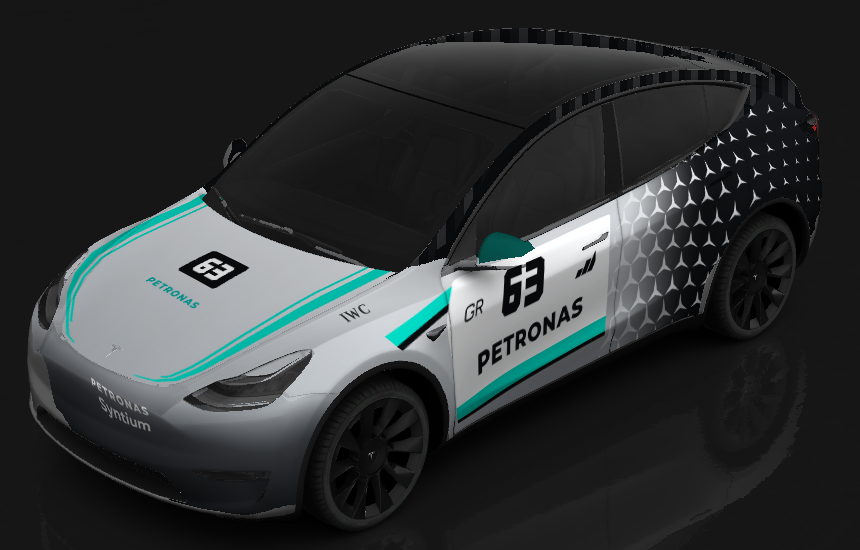
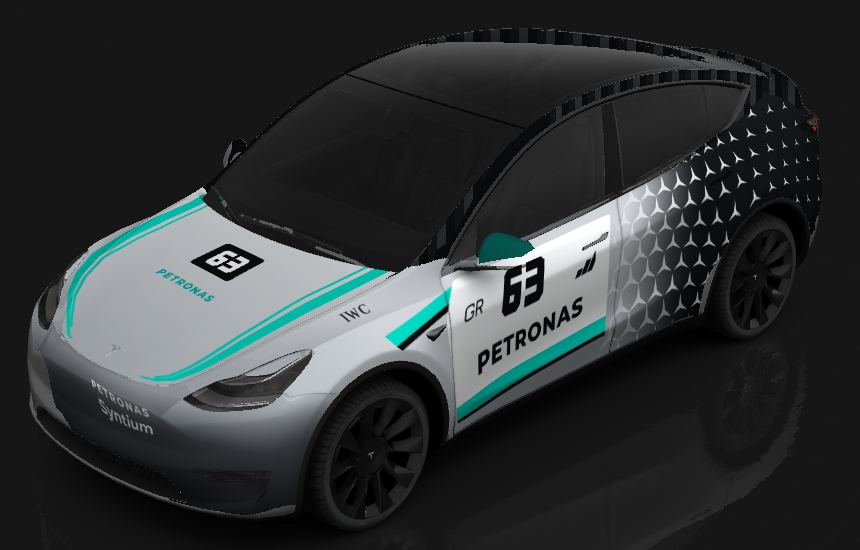
B: body of the 3D-render reference with the front of the number-plate reference
The owner prefers the body of the first reference and the front of the
third, so Race Livery now combines them:
- front: shared race_hood()/race_bumper() (also used by Russell 63) -
  double teal stripes on the hood's edges, a 63 plate near the
  windscreen, silver-to-near-black bumper with PETRONAS Syntium.
- body: the flow line keeps one straight top edge parallel to the door
  crease, full width under the inlet bars and a fine blade across the
  rear door; the corner of the teal L is one clean slanted edge; denser
  star mesh; teal flash at the foot of the A-pillar ties the hood stripe
  to the bar; PETRONAS sits on a darker fade for contrast; stars kept
  off the partner names; PETRONAS PRIMAX on the rear bumper corners.
- fix: the two black areas now overlap under the flow line (a thin
  silver sliver used to show behind the end of the blade).

Claude-Session: https://claude.ai/code/session_01BfTDjqUfM4U8BnEC3d7TYF

diff --git a/tools/designs/w16_b.py b/tools/designs/w16_b.py
@@ -1,30 +1,37 @@
-"""W16 'Race Livery' - the busy one, closest to the 3D-render reference and to
-the real car: silver on top, black flanks, a teal bar and one straight flow
-line where they meet, a star field and a full set of partner decals.
+"""W16 'Race Livery' - the owner's pick: the body of the 3D-render reference
+(teal bar and flow line, black sidepod, inlet bars, big PETRONAS, star mesh,
+partner decals) with the front of the number-plate reference (double teal
+stripes on the hood edges, a 63 plate, a bumper that fades from silver to
+near-black).
 """
 from __future__ import annotations
 
 import numpy as np
 
-from wrapkit import Canvas, box_decal, compose, layer, mix, ribbon, smoothstep, text_decal
+from wrapkit import Canvas, box_decal, compose, layer, mix, smoothstep, text_decal
 from designs.w16_common import *
 
 NAME = "W16_Race_Livery"
 TITLE = "B - Race Livery"
 NUMBER = "63"
 
-LINE_X0, LINE_Y0, LINE_SLOPE = 346.0, 170.0, CREASE_SLOPE   # the flow line: straight, parallel to the door crease
-LINE_X1 = 716.0
+# The flow line: its top edge is one straight line, parallel to the lower door crease.
+LINE_X0, LINE_X1 = 346.0, 716.0
+LINE_TOP0 = 162.0
 
 
 def diag_x(y):
-    """Leading edge of the teal bar that slants down the front door."""
+    """Leading edge of the teal bar that slants down the front of the door."""
     return 296 + (y - 78) * 0.62
 
 
-def line_y(x):
-    """Centre of the teal flow line (parallel to the shoulder of the rear door)."""
-    return LINE_Y0 + LINE_SLOPE * (np.asarray(x, dtype=np.float64) - LINE_X0)
+def line_top(x):
+    return LINE_TOP0 + CREASE_SLOPE * (np.asarray(x, dtype=np.float64) - LINE_X0)
+
+
+def line_thickness(x):
+    """Full width under the inlet bars, a fine blade across the rear door."""
+    return np.interp(x, [LINE_X0, 478, 528, LINE_X1], [16, 16, 5, 1.5])
 
 
 def paint_sides() -> dict:
@@ -34,32 +41,38 @@ def paint_sides() -> dict:
     c.paint(np.ones_like(X), metallic(c))
     nose_fade_side(c)
     black = c.gradient_field([(0, CARBON), (c.h, BLACK)], axis="y")
-    ly = line_y(X)
+    top = line_top(X)
 
     # black "sidepod": everything behind the slanted bar and above the flow line
-    pod = smoothstep(0, 3, X - (296 + (Y - 78) * 0.62) - 8) * smoothstep(0, 3, ly - Y)
+    # (the two black areas overlap under the teal line so no silver sliver is left between them)
+    pod = smoothstep(0, 3, X - (296 + (Y - 78) * 0.62) - 8) * smoothstep(0, 3, top + 10 - Y)
     c.paint(pod, black)
     # below the flow line the silver dissolves into black across the front door
-    low = smoothstep(318, 500, X + (Y - 200) * 0.25) * smoothstep(-2, 2, Y - ly)
+    low = smoothstep(292, 424, X + (Y - 200) * 0.25) * smoothstep(-2, 2, Y - top - 3)
     c.paint(low, black)
 
-    # star field: behind the front door only, strongest above the flow line
+    # star mesh behind the front door: nearly touching above the flow line,
+    # thinning out below it and toward the tail
     def radius(x, y):
-        grow = min(1.0, max(0.0, (x - 506) / 24.0))
-        fade = 1.0 - 0.62 * min(1.0, max(0.0, (x - 620) / 260.0))
-        below = y - float(line_y(x))
-        drop = 1.0 if below < 0 else max(0.0, 1.0 - below / 70.0)
-        r = 11.5 * grow * fade * drop
+        grow = min(1.0, max(0.0, (x - 506) / 22.0))
+        fade = 1.0 - 0.55 * min(1.0, max(0.0, (x - 640) / 250.0))
+        below = y - float(line_top(x)) - 4
+        drop = 1.0 if below < 0 else max(0.0, 1.0 - below / 64.0)
+        r = 10.5 * grow * fade * drop
         return r if r >= 3.5 else 0.0
-    stars = c.mask_polygons(star_lattice(506, 900, 12, 250, 28, radius, inner=0.15))
+    stars = c.mask_polygons(star_lattice(506, 900, 10, 250, 25, radius, inner=0.19))
     keep = 1 - c.mask_ellipse(800, 62, 38, 26)                    # room for the number roundel
-    c.paint(stars * keep, STAR)
+    keep = keep * (1 - c.mask_rect(786, 132, 884, 166, radius=6))  # and for the partner names below it
+    c.paint(stars * keep, SILVER_HI)
 
-    # teal: slanted bar, then one straight line tapering evenly to the tail
+    # teal: flash at the foot of the A-pillar, the slanted bar, and the flow line
+    c.polygon([(244, 50), (272, 46), (280, 74), (262, 78)], TEAL)
     c.polygon([(diag_x(80), 80), (diag_x(80) + 30, 80), (diag_x(178) + 34, 178), (diag_x(178) - 4, 178)], TEAL)
-    # (it ends with the rear door, before the wheel arch bends the panel)
-    xs = np.linspace(LINE_X0, LINE_X1, 60)
-    c.polygon(ribbon([(x, float(line_y(x))) for x in xs], np.interp(xs, [LINE_X0, LINE_X1], [17, 1.5])), TEAL)
+    # (its front end is cut on the same slant as the bar, so the corner of the L is one clean edge)
+    xs = np.linspace(LINE_X0, LINE_X1, 80)
+    upper = [(x, float(line_top(x))) for x in xs]
+    lower = [(x, float(line_top(x) + line_thickness(x))) for x in xs if x >= diag_x(178) - 4]
+    c.polygon(upper + lower[::-1], TEAL)
 
     # four inlet bars in the corner of the flow line, white fading to grey;
     # they stop short of the door handle (X 458-497)
@@ -68,8 +81,8 @@ def paint_sides() -> dict:
         c.polygon([(x0 + 22, 104), (x0 + 36, 104), (x0 + 14, 150), (x0, 150)], mix(WHITE, "#7E858B", i / 3.4))
 
     s.decal(text_decal("TeamViewer", F_SANS, 10.5, fill=WHITE), 404, 93)
-    s.decal(wordmark("PETRONAS", 24, WHITE, tracking=0.8, stroke=0.9, stroke_fill="#3A3F44"), 430, 207)
-    s.decal(wordmark("AMG", 15, BLACK, font=F_BLACK_IT, tracking=0.4, squeeze=1.25), 218, 92)
+    s.decal(wordmark("PETRONAS", 23.5, WHITE, tracking=0.8, stroke=1.0, stroke_fill="#2E3237"), 422, 208)
+    s.decal(wordmark("AMG", 15, BLACK, font=F_BLACK_IT, tracking=0.4, squeeze=1.25), 214, 96)
     s.decal(text_decal("IWC", F_SERIF, 14, fill=BLACK, tracking=0.8), 150, 62)
     s.decal(text_decal("Mercedes-Benz", "LiberationSerif-BoldItalic.ttf", 11.5, fill=WHITE), 596, 226)
     # race number roundel on the C-pillar part of the quarter panel
@@ -83,6 +96,7 @@ def paint_sides() -> dict:
 def paint_rails() -> dict:
     r = Mirrored("rail_L", base=BLACK)
     c = r.art
+    c.paint(c.mask_rect(-2, -2, 11, c.h + 2), TEAL)      # foot of the A-pillar
     for txt, x, font in (("CROWDSTRIKE", 236, F_COND), ("SOLERA", 336, F_SANS), ("WhatsApp", 428, F_SANS)):
         r.decal(text_decal(txt, font, 11 if font == F_COND else 9.5, fill=WHITE, tracking=0.5), x, c.h / 2 + 1)
     return r.render()
@@ -94,28 +108,19 @@ def paint_mirrors() -> dict:
 
 def paint_hood():
     c = Canvas("hood", SILVER)
-    hood_base(c)
-    # teal on the hood's side edges with a fine dark keyline inside it
-    c.paint(hood_edge_bands(c, 7, lambda y: float(np.interp(y, [8, 60, 236], [7, 7, 1.5]))), TEAL)
-    c.paint(hood_edge_bands(c, 19, 1.6, y0=10, y1=200), BLACK)
-    c.stamp(text_decal(NUMBER, F_BLACK_IT, 30, fill=BLACK, tracking=-0.5), c.w / 2, 136)
+    race_hood(c, NUMBER)
     return c.result()
 
 
 def paint_front():
     c = Canvas("front", SILVER)
-    bumper_base(c)
-    cx = c.w / 2
-    c.stamp(wordmark("PETRONAS", 13, WHITE, font=F_WORD, tracking=1.6), cx, 52)
-    c.stamp(text_decal("Syntium", "Montserrat-BoldItalic.otf", 18, fill=WHITE), cx, 72)
-    for sgn in (-1, 1):   # low outer corners, clear of the fog lamps
-        c.stamp(text_decal("INEOS", F_SANS, 10, fill=WHITE, tracking=0.8), cx + sgn * 222, 114)
+    race_bumper(c)
     return c.result()
 
 
 def paint_liftgate():
     c = Canvas("liftgate", BLACK)
-    c.paint(c.mask_polygons(star_lattice(0, c.w, 6, c.h, 28, 9.0, inner=0.15)), STAR, 0.9)
+    c.paint(c.mask_polygons(star_lattice(0, c.w, 6, c.h, 25, 8.0, inner=0.19)), SILVER_HI, 0.85)
     liftgate_marks(c, NUMBER)
     return c.result()
 
@@ -125,8 +130,8 @@ def paint_rear():
     cx = c.w / 2
     c.paint(c.mask_rect(160, 78, c.w - 160, 82, radius=2), TEAL)
     for sgn in (-1, 1):
-        c.stamp(text_decal("Snapdragon", F_SANS, 10.5, fill=WHITE), cx + sgn * 208, 72)
-        c.stamp(text_decal("CROWDSTRIKE", F_COND, 12.5, fill=WHITE, tracking=0.5), cx + sgn * 208, 89)
+        c.stamp(wordmark("PETRONAS", 9.5, TEAL, font=F_WORD, tracking=1.0), cx + sgn * 208, 72)
+        c.stamp(text_decal("PRIMAX", "Montserrat-BoldItalic.otf", 13, fill=WHITE, tracking=0.6), cx + sgn * 208, 88)
     return c.result()
 
 

diff --git a/tools/designs/w16_common.py b/tools/designs/w16_common.py
@@ -104,6 +104,28 @@ def bumper_base(c: Canvas):
         [(0, NOSE), (22, "#A7ACB1"), (72, BUMPER_MID), (c.h, BUMPER_LOW)], axis="y"))
 
 
+def race_hood(c: Canvas, number: str):
+    """Hood of the preferred front: a broad teal stripe with a pinstripe inside
+    it along each hood edge, a black number plate up near the windscreen and a
+    small teal wordmark ahead of it.  Everything stays clear of the Tesla
+    badge at the nose."""
+    hood_base(c)
+    c.paint(hood_edge_bands(c, 8, lambda y: float(np.interp(y, [8, 80, 238], [15, 15, 5])), y1=240), TEAL)
+    c.paint(hood_edge_bands(c, lambda y: float(np.interp(y, [8, 80, 232], [30, 30, 14])), 3.2, y1=232), TEAL)
+    cx = c.w / 2
+    c.stamp(block_plate(number, 44), cx, 88)
+    c.stamp(wordmark("PETRONAS", 12, TEAL_DEEP, font=F_WORD, tracking=1.4), cx, 136)
+
+
+def race_bumper(c: Canvas):
+    """Front bumper of the preferred front: silver under the hood lip falling
+    away to near-black, with the lubricant wordmark in white on the dark part."""
+    bumper_base(c)
+    cx = c.w / 2
+    c.stamp(wordmark("PETRONAS", 13, WHITE, font=F_WORD, tracking=1.6), cx, 54)
+    c.stamp(text_decal("Syntium", "Montserrat-BoldItalic.otf", 19, fill=WHITE), cx, 75)
+
+
 def star_lattice(x0, x1, y0, y1, pitch, radius, rot=0.0, inner=0.17, stagger=True):
     """List of star polygons on a triangular lattice.  radius: number or
     callable (x, y) -> radius in px (<= 0 skips the star)."""

diff --git a/tools/designs/w16_c.py b/tools/designs/w16_c.py
@@ -74,23 +74,13 @@ def paint_mirrors() -> dict:
 
 def paint_hood():
     c = Canvas("hood", SILVER)
-    hood_base(c)
-    # broad teal stripe on each hood edge with a pinstripe inside it, both
-    # running parallel to the panel line
-    c.paint(hood_edge_bands(c, 7, lambda y: float(np.interp(y, [8, 70, 236], [15, 15, 4]))), TEAL)
-    c.paint(hood_edge_bands(c, lambda y: float(np.interp(y, [8, 70, 236], [29, 29, 13])), 3.0, y1=228), TEAL)
-    # number plate high on the hood, well clear of the Tesla badge at the nose
-    c.stamp(block_plate(NUMBER, 42), c.w / 2, 104)
-    c.stamp(wordmark("PETRONAS", 11, TEAL_DEEP, font=F_WORD, tracking=1.2), c.w / 2, 150)
+    race_hood(c, NUMBER)
     return c.result()
 
 
 def paint_front():
     c = Canvas("front", SILVER)
-    bumper_base(c)
-    cx = c.w / 2
-    c.stamp(wordmark("PETRONAS", 13, WHITE, font=F_WORD, tracking=1.6), cx, 52)
-    c.stamp(text_decal("Syntium", "Montserrat-BoldItalic.otf", 18, fill=WHITE), cx, 72)
+    race_bumper(c)
     return c.result()
 
 

diff --git a/modely/w16/README.md b/modely/w16/README.md
@@ -7,7 +7,7 @@
 | | 檔案 | 風格 |
 | --- | --- | --- |
 | **A** | [`W16_Silver_Arrow.png`](W16_Silver_Arrow.png) | 簡潔版：銀色車頭、引擎蓋兩側寬版青綠邊帶與大號 63、前門方塊字 63 號碼牌與 PETRONAS、沿車門底緣的青綠色直帶，後門起漸層轉黑並鋪滿三芒星 |
-| **B** | [`W16_Race_Livery.png`](W16_Race_Livery.png) | 賽道版：青綠色斜帶與一條直線流線、黑色側箱、進氣口斜槓、大型 PETRONAS、C 柱號碼圓牌與贊助商字樣 |
+| **B** | [`W16_Race_Livery.png`](W16_Race_Livery.png) | 賽道版（車身取 3D 渲染參考圖、車頭取號碼牌參考圖）：青綠色斜帶接一條直線流線、黑色側箱、進氣口斜槓、大型 PETRONAS、三芒星網格、C 柱號碼圓牌與贊助商字樣；引擎蓋兩側雙綠條＋63 號碼牌，前保桿銀到深色漸層配 PETRONAS Syntium |
 | **C** | [`W16_Russell_63.png`](W16_Russell_63.png) | 號碼板版：前門白色面板＋大型方塊字 63、PETRONAS 與青綠底線，引擎蓋邊緣寬版青綠條紋，半色調三芒星由銀漸變到黑 |
 | **D** | [`W16_Black_Arrow.png`](W16_Black_Arrow.png) | 暗黑版：碳黑車身、銀色車鼻化為星陣、沿車門折線的青綠雙線與大型 63 |
 
